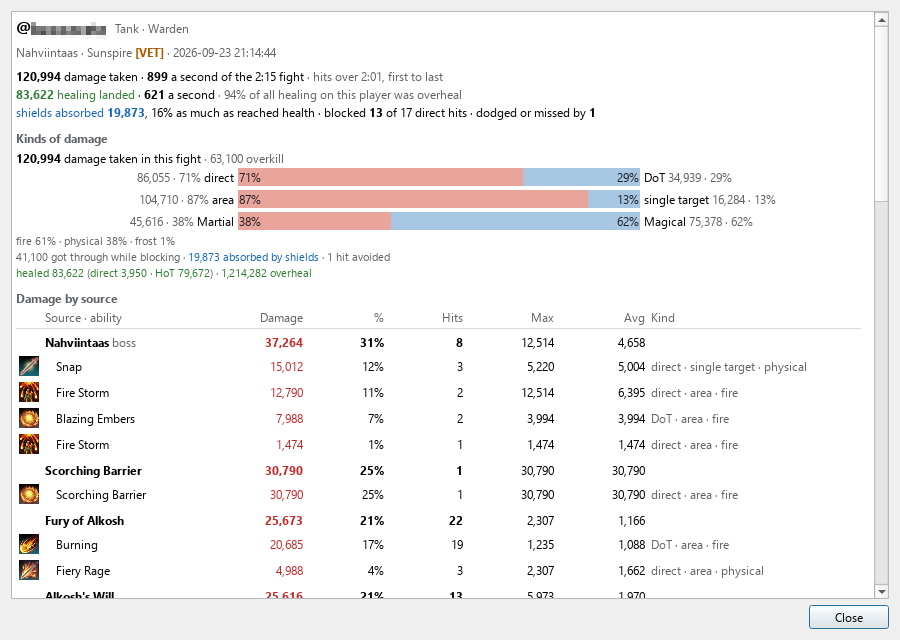
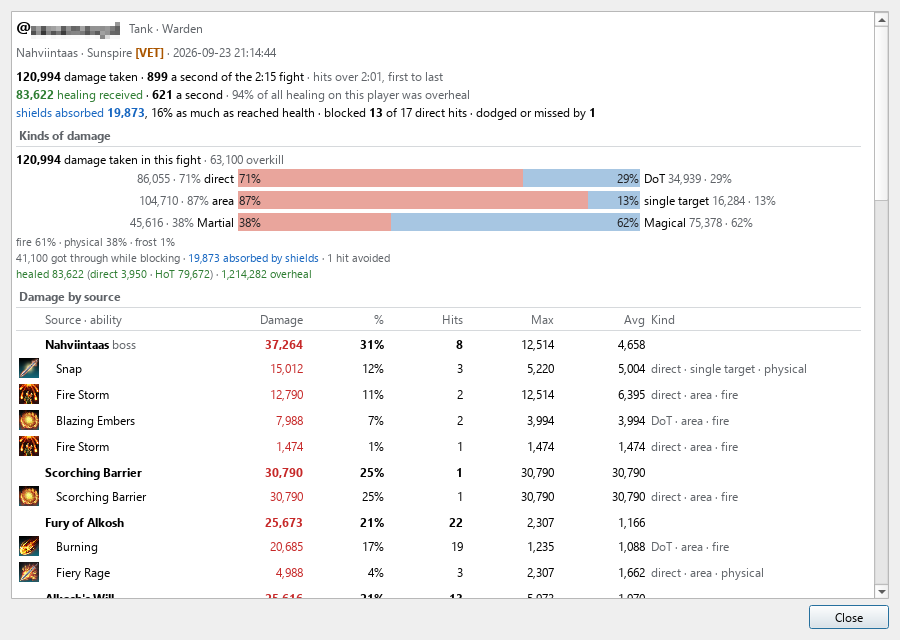
fix: answer the review of PR #144
The damage taken window's section titles take the same table-head form,
so they get their rule too (its picture retaken); the heading and rule
CSS come from one pair of helpers instead of four copies; _heading_html
is a design-doc source; the guide's framed-row sentence holds only when
the player dealt damage; a test scrolls to each of the three anchors in
their new host element; the screenshot script reports a build-resources
picture that could not open on its heading instead of shipping it.

diff --git a/src/gui/build_render.py b/src/gui/build_render.py
@@ -425,11 +425,10 @@ def _item_cells(row: dict, dark: bool, theme, set_links, text_color: str, e):
 
 def _gear_html(p, dark: bool, theme, set_links, text_color: str, base_pt: float, e) -> str:
     gear = {str(row.get("slot")): row for row in p.get("gear") or []}
-    muted, rule = theme["muted"], _RULES[bool(dark)]
+    muted = theme["muted"]
     if not gear:
         return f"<p style='margin:8px 0;color:{muted}'>{NO_GEAR}</p>"
-    under = (f"border-bottom-style:solid;border-bottom-width:1px;"
-             f"border-bottom-color:{rule}")
+    under = _rule_css(dark)
     # Not 100% wide: Qt rounds percentage columns up to a pixel past the pane
     parts = ["<table cellpadding='3' cellspacing='0' width='99%'><tr>"]
     parts.extend(f"<td width='{width}%' align='{align}' style='color:{muted};{under}'>"
@@ -503,19 +502,31 @@ def _casters_text(casters, e, names, color: str, pt: float) -> str:
     return ", ".join(parts)
 
 
-def _heading_html(title: str, extra: str, dark: bool, theme, anchor: str) -> str:
+def _heading_css(theme) -> str:
+    """A section heading's text: bold, in the muted colour, with room above."""
+    return f"padding-top:7px;color:{theme['muted']};font-weight:bold"
+
+
+def _rule_css(dark: bool) -> str:
+    """The rule under a heading or a table head, on a table cell (the one
+    element Qt rich text draws a border on)."""
+    return (f"border-bottom-style:solid;border-bottom-width:1px;"
+            f"border-bottom-color:{_RULES[bool(dark)]}")
+
+
+def _heading_html(title: str, extra: str, dark: bool, theme, anchor: str = "") -> str:
     """A section heading with its rule, as a one-cell table head: Qt rich
     text draws borders on table cells and never on a <p>, so the Damage
     dealt and Resources headings, <p> elements with a border-bottom until
     issue #143, had no rule while the gear grid and the Penetration and
-    Critical damage heads (the same form inside their tables) had one.
-    *extra* follows the title (a link, a caption); the anchor goes first,
-    where scrollToAnchor finds it."""
-    muted, rule = theme["muted"], _RULES[bool(dark)]
-    return (f"<a name='{anchor}'></a>"
-            f"<table cellpadding='3' cellspacing='0' width='99%'><tr>"
-            f"<td style='padding-top:7px;color:{muted};font-weight:bold;"
-            f"border-bottom-style:solid;border-bottom-width:1px;border-bottom-color:{rule}'>"
+    Critical damage heads (the same form inside their tables) had one; the
+    damage taken window's section titles (taken_render) take this form too.
+    *extra* follows the title (a link, a caption); the anchor, when there
+    is one, goes first, where scrollToAnchor finds it: Qt hangs an empty
+    named anchor on the next text it lays out, the heading cell."""
+    name = f"<a name='{anchor}'></a>" if anchor else ""
+    return (f"{name}<table cellpadding='3' cellspacing='0' width='99%'><tr>"
+            f"<td style='{_heading_css(theme)};{_rule_css(dark)}'>"
             f"{title}{extra}</td></tr></table>")
 
 
@@ -580,7 +591,7 @@ def _resources_html(p, dark: bool, theme, base_pt: float, e, names) -> str:
     gains that gave the most, each giver through the Hide names mask."""
     muted = theme["muted"]
     small = f"font-size:{base_pt * 0.85:.2f}pt"
-    heading = f"padding-top:7px;color:{muted};font-weight:bold"
+    heading = _heading_css(theme)
     title = _heading_html(RESOURCES_TITLE,
                           f" <span style='font-weight:normal;{small}'>· {RESOURCES_CAPTION}</span>",
                           dark, theme, RESOURCES_ANCHOR)
@@ -690,10 +701,9 @@ def _pen_crit_html(entry, p, dark: bool, theme, options, base_pt: float, e, name
     group = getattr(entry, "pen_crit", None) or {}
     if not data and not group:
         return ""
-    muted, rule = theme["muted"], _RULES[bool(dark)]
+    muted = theme["muted"]
     small = f"font-size:{base_pt * 0.85:.2f}pt"
-    heading = f"padding-top:7px;color:{muted};font-weight:bold"
-    under = f"border-bottom-style:solid;border-bottom-width:1px;border-bottom-color:{rule}"
+    heading, under = _heading_css(theme), _rule_css(dark)
     # The same sums and effective figures the fight pane's row shows
     totals = player_totals(data, group, options)
     instanced, cap, crit_cap = totals["instanced"], totals["cap"], totals["crit_cap"]

diff --git a/tests/unit/test_build_window_gui.py b/tests/unit/test_build_window_gui.py
@@ -1108,6 +1108,49 @@ class TestSectionOrderAndHeadings(unittest.TestCase):
             self.assertIn('border-bottom-style:solid', cell, title)
         self.assertNotIn("<p style='margin:6px 0 2px 0;padding-top:7px", html)
 
+    def test_the_anchors_scroll_the_window_to_their_headings(self):
+        # The empty <a name> now precedes a <table>: Qt hangs it on the
+        # heading cell, where scrollToAnchor (the pen/crit token's click,
+        # the screenshot script) must find it
+        from PySide6.QtWidgets import QApplication
+
+        from gui.build_dialog import BuildDialog
+        from gui.build_render import DEALT_ANCHOR, PEN_CRIT_ANCHOR, RESOURCES_ANCHOR
+        dialog = BuildDialog()
+        try:
+            dialog.show_build(_entry(), '1', dark=False)
+            dialog.show()
+            QApplication.processEvents()
+            view, bar = dialog.view, dialog.view.verticalScrollBar()
+            self.assertGreater(bar.maximum(), 0)
+            for anchor in (DEALT_ANCHOR, PEN_CRIT_ANCHOR, RESOURCES_ANCHOR):
+                top = _anchor_top(view.document(), anchor)
+                self.assertIsNotNone(top, anchor)
+                view.scrollToAnchor(anchor)
+                self.assertLessEqual(abs(bar.value() - min(int(top), bar.maximum())), 1, anchor)
+                self.assertGreater(bar.value(), 0, anchor)
+        finally:
+            dialog.close()
+            dialog.deleteLater()
+
+
+def _anchor_top(doc, name):
+    """The top of the block that carries the named anchor, as
+    QTextEdit.scrollToAnchor reads it (on the block's format for an anchor
+    before a <p>, on a fragment's for one before a <table>); None if the
+    document has no such anchor."""
+    block = doc.begin()
+    while block.isValid():
+        if name in block.charFormat().anchorNames():
+            return doc.documentLayout().blockBoundingRect(block).top()
+        it = block.begin()
+        while not it.atEnd():
+            if name in it.fragment().charFormat().anchorNames():
+                return doc.documentLayout().blockBoundingRect(block).top()
+            it += 1
+        block = block.next()
+    return None
+
 
 if __name__ == '__main__':
     unittest.main()

diff --git a/scripts/capture_screenshots.py b/scripts/capture_screenshots.py
@@ -112,6 +112,7 @@ def main():
     # session; the fight list is complete only then (a long fight can take
     # seconds to replay, during which the list looks finished)
     started = {"flag": False}
+    problems = []  # pictures that need another fight, reported at the end
 
     def pump(seconds, until_started=False):
         t0 = time.time()
@@ -195,7 +196,13 @@ def main():
         win._build_dialog.view.scrollToAnchor(RESOURCES_ANCHOR)
         pump(0.5)
         save(win._build_dialog, "build-resources.png")
-        win._build_dialog.view.verticalScrollBar().setValue(0)
+        bar = win._build_dialog.view.verticalScrollBar()
+        top = _anchor_top(win._build_dialog.view.document(), RESOURCES_ANCHOR)
+        if top is not None and bar.value() < int(top) - 1:
+            problems.append("build-resources.png opens on the window's end, not on the Resources "
+                            "heading: this player's Resources section is shorter than the window. "
+                            "Pick a trial fight (--boss) for the guide's picture.")
+        bar.setValue(0)
         win._build_dialog.hide()
 
     # The (i) popup: the first player of the fight with a possible build issue
@@ -315,6 +322,25 @@ def main():
     win.close()
     pump(1)
     scratch.cleanup()
+    if problems:
+        # The pictures are saved; say which one needs another fight
+        sys.exit("\n".join(problems))
+
+
+def _anchor_top(doc, name):
+    """The top of the block that carries the named anchor, as
+    QTextEdit.scrollToAnchor reads it, or None."""
+    block = doc.begin()
+    while block.isValid():
+        if name in block.charFormat().anchorNames():
+            return doc.documentLayout().blockBoundingRect(block).top()
+        it = block.begin()
+        while not it.atEnd():
+            if name in it.fragment().charFormat().anchorNames():
+                return doc.documentLayout().blockBoundingRect(block).top()
+            it += 1
+        block = block.next()
+    return None
 
 
 if __name__ == "__main__":

diff --git a/src/gui/taken_render.py b/src/gui/taken_render.py
@@ -58,7 +58,7 @@ from damage_kinds import (
     DIRECT_RESULTS,
     summary_of_taken,
 )
-from gui.build_render import player_for
+from gui.build_render import _heading_html, player_for
 from gui.death_render import (
     _THEMES,
     HOT_LABEL,
@@ -194,11 +194,10 @@ def _figures_html(entry, taken: dict, theme, e) -> str:
 
 
 def _section_title(text: str, theme, dark: bool, anchor: str = "") -> str:
-    rule = "#45494f" if dark else "#d6d9dc"
-    name = f"<a name='{anchor}'></a>" if anchor else ""
-    return (f"{name}<p style='margin:10px 0 2px 0;padding-top:7px;color:{theme['muted']};"
-            f"font-weight:bold;border-bottom-style:solid;border-bottom-width:1px;"
-            f"border-bottom-color:{rule}'>{text}</p>")
+    """A section title with its rule, in the build window's table-head form
+    (build_render._heading_html): a <p> with a border draws no rule in Qt
+    rich text, so these titles had none until issue #143."""
+    return _heading_html(text, "", dark, theme, anchor)
 
 
 def _table_open(columns, theme) -> str:

diff --git a/scripts/build_design_doc.py b/scripts/build_design_doc.py
@@ -89,6 +89,9 @@ TOPICS = [
         "scripts/generate_set_offense.py",
         "src/gui/build_render.py:_pen_crit_html",
     ]),
+    ("Section headings: the one element Qt rich text draws a rule on", [
+        "src/gui/build_render.py:_heading_html",
+    ]),
     ("Possible build issues: what the log proves about a build", [
         "src/build_issues.py",
         "src/build_issues.py:BuildIssueTracker",

diff --git a/docs/user-guide.md b/docs/user-guide.md
@@ -147,7 +147,7 @@ Click a player's name, in either view, to open their build for that fight. The n
 - **Type** is the armor weight, or what a weapon is: `Inferno Staff`, `Dagger`, `Greatsword`, `Shield` and so on. The Armor heading counts the pieces of each weight, `5 medium, 1 light, 1 heavy`. A dash means the app does not know the piece (see [Limitations](#limitations)).
 - **Pcs** is the number of pieces of the row's set that are active, counted per weapon bar: armor and jewelry count on both bars, and each bar adds its own weapons, a two-handed one as two. `5` means five on either bar. `5/3` means five on the front bar and three on the back: that set's five-piece bonus is live on the front bar only.
 - **Damage dealt**: the kinds of the player's damage in the fight, the same three bars as the [death recap](#death-recaps) draws for damage taken: direct against over time (Master-at-Arms, Thaumaturge), area against single target (Biting Aura, Deadly Aim), Martial against Magical (Mighty, War Mage), with the damage types under them and what enemy shields absorbed named apart. For a player's own skills the area side comes from the casts (a cast that struck two or more units) and, against a lone boss where every cast strikes one unit, from UESP's skill table (Impulse is an area skill, Crystal Fragments single target); a line under the bars says how much of the damage the table classed. A side's label links to its star on ESO-Hub and names it on hover.
-- **Penetration** and **Critical damage**: where the player's figures come from and how they stand against the caps, see below. Each ends with its *Effective* figure in a framed row, the line that counts.
+- **Penetration** and **Critical damage**: where the player's figures come from and how they stand against the caps, see below. Each ends with its *Effective* figure in a framed row, the line that counts, when the player dealt damage.
 - **Resources**, last: the magicka, stamina and ultimate the player spent and gained in the fight, each with its rate per second, see [Resources](#resources) below.
 
 ![The Damage dealt section of the build window](screencaps/build-damage-dealt.png)
